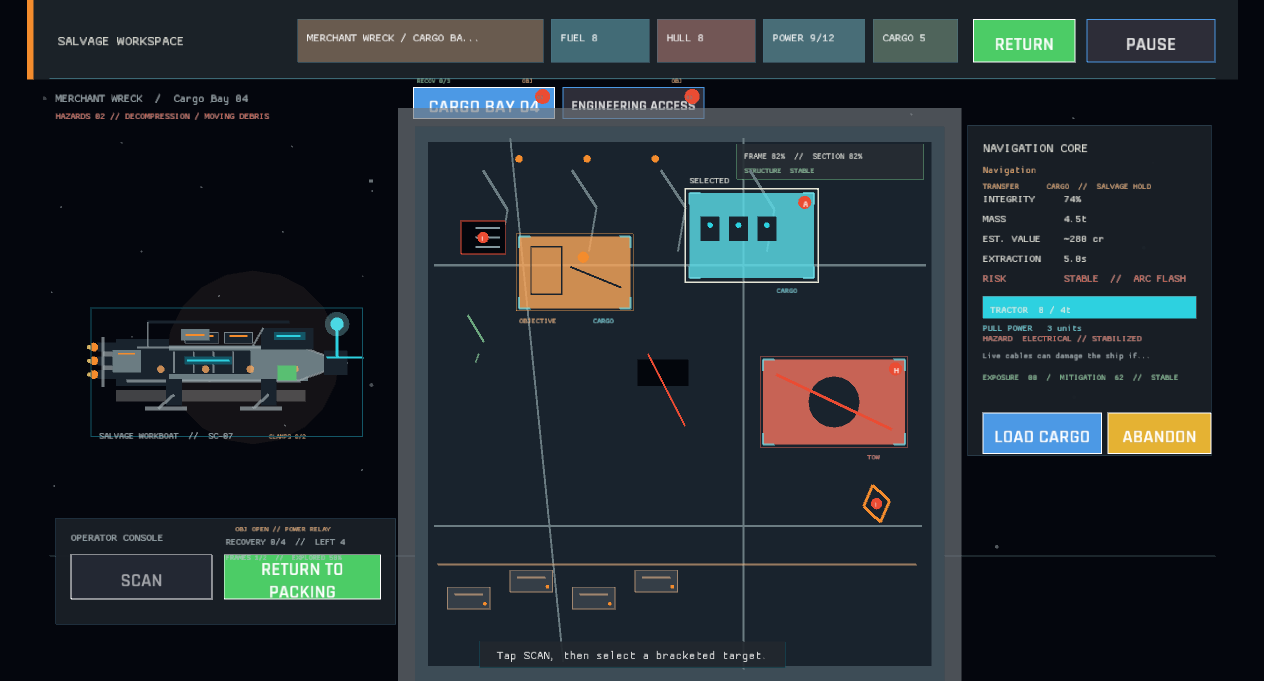
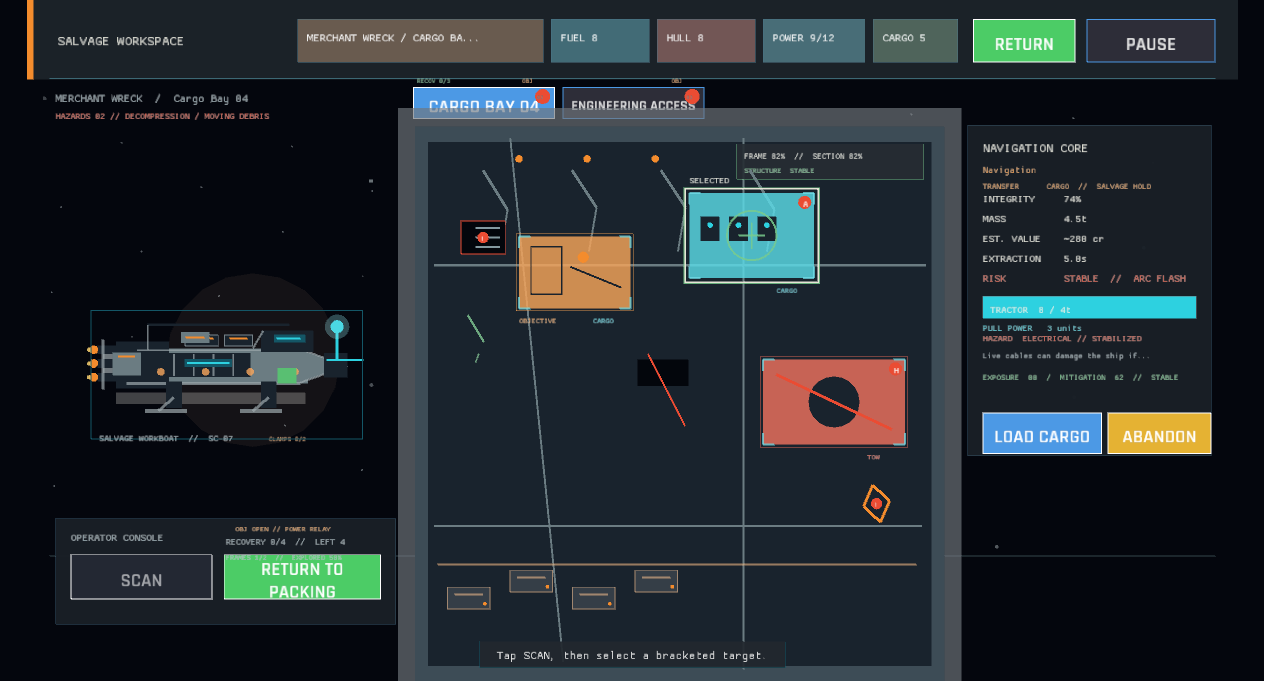
A stabilized mount shows its lock on the hull (stabilization lock feedback)
Stabilized targets now receive a pulsing lock frame and reticle in the wreck scene, so the successful preparation is visible in-world instead of existing only in the risk text. Refreshed the post-stabilization verification capture.

Changed region(s): [[0.0617, 0.4317, 0.2777, 0.6476], [0.5862, 0.3084, 0.6171, 0.37]]

diff --git a/src/ui/wreck_visual.rs b/src/ui/wreck_visual.rs
@@ -121,6 +121,7 @@ pub fn draw_wreck(
             selected_target,
             extraction_target,
             extraction_progress,
+            elapsed,
         );
     }
     draw_text(
@@ -514,6 +515,7 @@ fn draw_target_mount(
     selected_target: Option<&str>,
     extraction_target: Option<&str>,
     extraction_progress: f32,
+    elapsed: f32,
 ) {
     let Some(rect) = layout.target_rect(target_id) else {
         return;
@@ -521,6 +523,7 @@ fn draw_target_mount(
     let removed = session.target_is_removed(target_id);
     let selected = selected_target == Some(target_id);
     let extracting = extraction_target == Some(target_id);
+    let stabilized = session.target_is_stabilized(target_id);
     if removed {
         draw_rectangle(rect.x, rect.y, rect.w, rect.h, visual_theme::space());
         draw_rectangle_lines(rect.x, rect.y, rect.w, rect.h, 2.0, visual_theme::warning());
@@ -652,6 +655,9 @@ fn draw_target_mount(
                 );
             }
         }
+    }
+    if stabilized && scanned {
+        hazard_visual::draw_stabilization_lock(draw_rect, elapsed);
     }
     if selected || extracting {
         let outline = if extracting {

diff --git a/src/ui/hazard_visual.rs b/src/ui/hazard_visual.rs
@@ -119,3 +119,34 @@ pub fn draw_target_hazard(rect: Rect, hazard_value: &str, elapsed: f32, progress
         }
     }
 }
+
+pub fn draw_stabilization_lock(rect: Rect, elapsed: f32) {
+    let center = rect.center();
+    let pulse = 0.8 + (elapsed * 3.5).sin().abs() * 0.2;
+    let lock_color = visual_theme::with_alpha(visual_theme::safe(), pulse);
+    draw_rectangle_lines(
+        rect.x - 6.0,
+        rect.y - 6.0,
+        rect.w + 12.0,
+        rect.h + 12.0,
+        2.0,
+        lock_color,
+    );
+    draw_circle_lines(center.x, center.y, rect.h * 0.28, 2.0, lock_color);
+    draw_line(
+        center.x - 14.0,
+        center.y,
+        center.x + 14.0,
+        center.y,
+        2.0,
+        lock_color,
+    );
+    draw_line(
+        center.x,
+        center.y - 14.0,
+        center.x,
+        center.y + 14.0,
+        2.0,
+        lock_color,
+    );
+}
